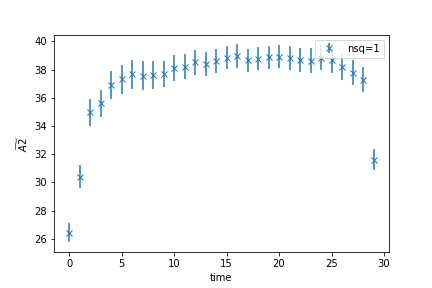
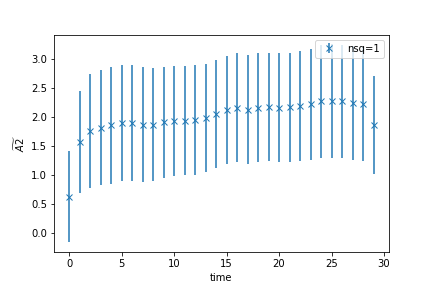
A2 still buggy

diff --git a/Code/Ratio.py b/Code/Ratio.py
@@ -53,6 +53,8 @@ def build_Ratio_A2(jb3pt,jbdx,jbdy,jbdz,jbb,pref,dt,nsq,nconf,pre,md,mb,ed,dsfit
         for i in range(nconf):
             ratiojack[j][i]=pre*build_A2(i,j,jb3pt,jbdx,jbdy,jbdz,jbb,pref,dt,nsq,i,md,mb,ed,dsfit,bsfit,A0comp[j,i],A1comp[j,i])
             x=x+(ratiojack[j][i]-ratiojack[j][nconf])**2
+            #print(i,j)
+            #print(ratiojack[j][i]-ratiojack[j][nconf])
         errn0[j]=np.sqrt((nconf-1)/nconf*x) 
     avn0[np.isnan(avn0)] = 0
     errn0[np.isnan(errn0)] = 0
@@ -70,7 +72,9 @@ def build_A2(i,j,jb3pt,jbdx,jbdy,jbdz,jbb,pref,dt,nsq,nconf,md,mb,ed,dsfit,bsfit
     qsq=mb**2+md**2-2*mb*ed
     #qsq=(mb-ed)**2+(2*np.pi/L)**2*nsq
     for num in range(len(pref)):
-        total+=1/(pref[num][1]**2*conv**2)*1/(1+(md**2-mb**2)/qsq)*(-2*(pref[num][1]**2*conv**2)*ed*mb/(qsq*md)*A0comp+(mb+md)*(1+(pref[num][1]**2*conv**2)/qsq**2+(ed*mb*(pref[num][1]**2*conv**2))/(md**2*qsq))*A1comp-pref[num][0]*build_mat(num,j,i,jb3pt,jbdx,jbdy,jbdz,jbb,pref,dt,nsq,nconf,md,mb,ed,dsfit,bsfit))
+        #total+=1/(pref[num][1]**2*conv**2)*1/(1+(md**2-mb**2)/qsq)*(-2*(pref[num][1]**2*conv**2)*ed*mb/(qsq*md)*A0comp+(mb+md)*(1+(pref[num][1]**2*conv**2)/md**2+(ed*mb*(pref[num][1]**2*conv**2))/(md**2*qsq))*A1comp-pref[num][0]*build_mat(num,j,i,jb3pt,jbdx,jbdy,jbdz,jbb,pref,dt,nsq,nconf,md,mb,ed,dsfit,bsfit))
+        print(-2*ed*mb/(qsq*md)*A0comp+(mb+md)*(1/md**2+(ed*mb)/(md**2*qsq))*A1comp+(mb+md)/(pref[num][1]**2*conv**2)*A1comp,-1/(pref[num][1]**2*conv**2)*pref[num][0]*build_mat(num,j,i,jb3pt,jbdx,jbdy,jbdz,jbb,pref,dt,nsq,nconf,md,mb,ed,dsfit,bsfit))
+        total+=qsq/(qsq+md**2-mb**2)*(-2*ed*mb/(qsq*md)*A0comp+(mb+md)*(1/md**2+(ed*mb)/(md**2*qsq))*A1comp+(mb+md)/(pref[num][1]**2*conv**2)*A1comp-1/(pref[num][1]**2*conv**2)*pref[num][0]*build_mat(num,j,i,jb3pt,jbdx,jbdy,jbdz,jbb,pref,dt,nsq,nconf,md,mb,ed,dsfit,bsfit))
     return total/len(pref)
 
 def build_mat(num,j,i,jb3pt,jbdx,jbdy,jbdz,jbb,pref,dt,nsq,nconf,md,mb,ed,dsfit,bsfit):

diff --git a/Code/Analysis.py b/Code/Analysis.py
@@ -12,7 +12,7 @@ import Basic
 import Regression
  
 #########Choose Params
-FF='A0'
+FF='A2'
 nsq=1
 ensemble='F1S'
 cmass=Ens.getCmass(ensemble)[0] #Ens.getCmass(ensemble) gives us an array of the different charm masses for each ens; chose which one
